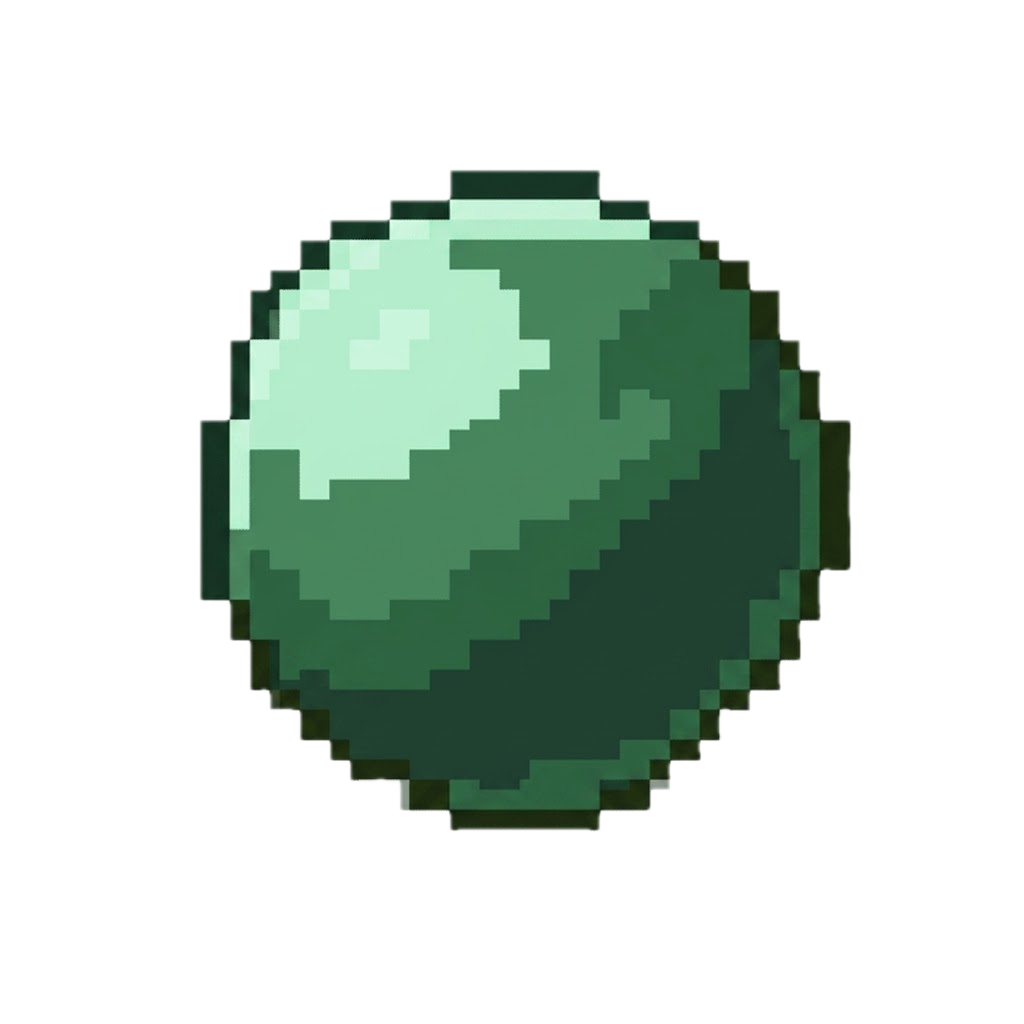
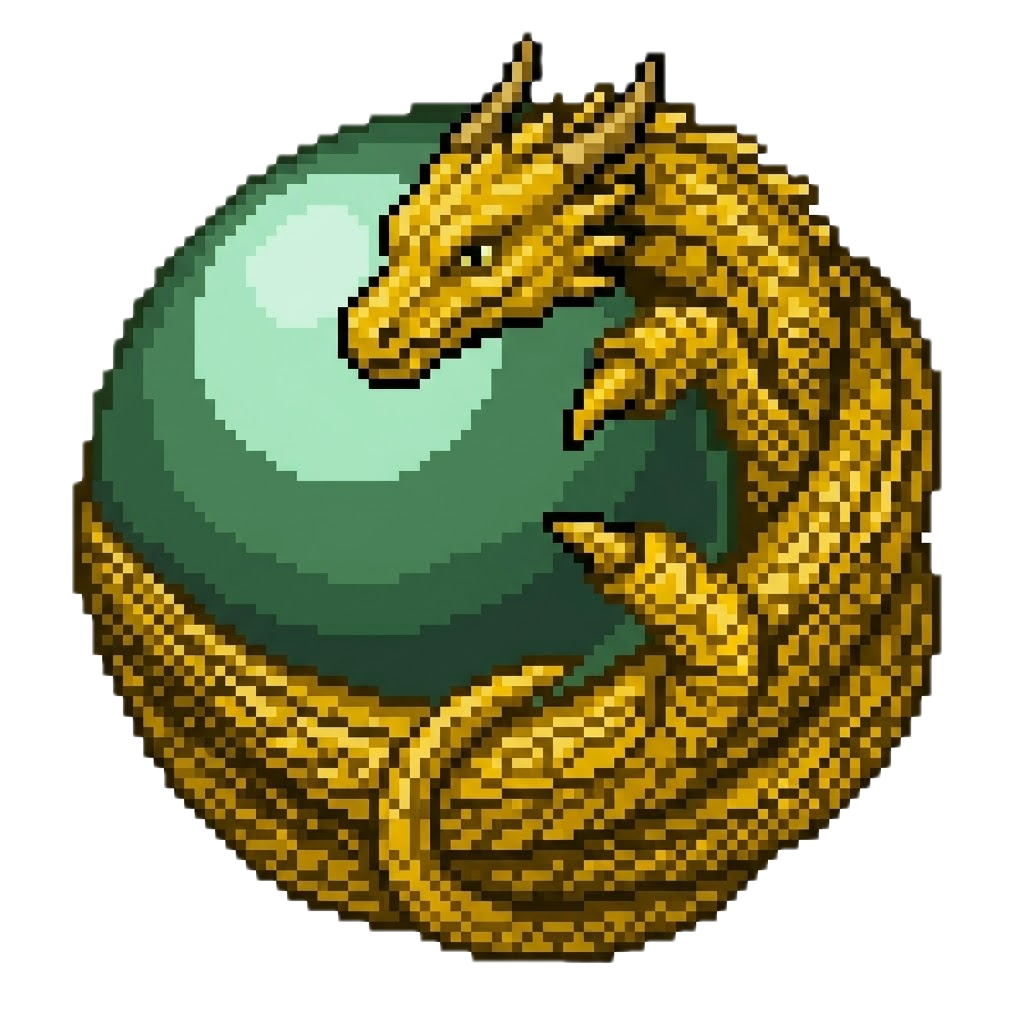
하단 상태창 개편 + 적 스폰 무제한화
- 1~3열 상단에 제목(STATUS/KILL STACK/CINTAMANI) 추가
- 3열 CINTAMANI을 2x2에서 1x4 한 줄 배치로 변경
- 1열(속도/길이/독침 데미지)을 2/3열과 같은 아이콘+숫자 형태로 통일
  - 속도/길이는 assets/stats/에 아이콘 자리 추가(에셋 반영 완료)
  - 독침/비늘파동 데미지 칸은 각 무기를 실제로 획득한 뒤에만 표시(assets/weapons 아이콘 재사용)
- 상태창 높이 100 -> 80px로 축소(아이콘 가로 배치로 생긴 여백 정리)
- 무기 잠금 해제 튜토리얼 팝업 폰트 전체 확대(lineHeight 비율 0.05 -> 0.065)
- 필드 적 3마리 초과 시 스폰이 완전히 멈추던 하드 캡 제거 - 대신 초과 마리당
  생성 간격이 2배씩 지수적으로 늘어나기만 하고 스폰 자체는 무제한으로 계속됨
- 여의주(cintamani) 아이콘 아트 반영(red/blue/green/yellow)

BUILD_VERSION 20260730-53, 헤드리스 테스트로 상태창 렌더링/적 스폰 무제한/간격 배율 확인

diff --git a/js/render/statusPanel.js b/js/render/statusPanel.js
@@ -1,14 +1,19 @@
-// 게임 캔버스 아래 별도의 캔버스(#status-canvas)에 그리는 하단 상태창 - 가로 4열:
-// 1열 뱀 기본 스테이터스(속도/길이/독침 데미지), 2열 적1~5 이번 판 킬 스택(이미지+수치),
-// 3열 여의주(cintamani) 4종 2x2(이미지+개수, 아직 게임에 없는 개념이라 항상 0), 4열은 향후
-// 확장을 위해 지금은 비워둠. hud.js(DOM 통계 바)와 같은 "게임 캔버스와는 분리된 자기만의
-// 캔버스" 패턴. 코드 상 식별자는 "여의주"의 음역(yeouiju)이 아니라 "cintamani"(여의주의
-// 산스크리트/영문 명칭, 이 게임 이름과 동일)를 쓴다 - 표기가 두 개로 갈리면 나중에 헷갈릴 수
-// 있어서 게임 제목과 통일했다.
+// 게임 캔버스 아래 별도의 캔버스(#status-canvas)에 그리는 하단 상태창 - 가로 4열, 각 열
+// 상단에 제목(STATUS/KILL STACK/CINTAMANI)을 붙인다:
+// 1열 STATUS - 뱀 기본 스테이터스, 2열 KILL STACK - 적1~5 이번 판 킬 스택(이미지+수치),
+// 3열 CINTAMANI - 여의주 4종 1x4 한 줄 배치(이미지+개수, 아직 게임에 없는 개념이라 항상 0),
+// 4열은 제목 없이 향후 확장을 위해 지금은 비워둠. hud.js(DOM 통계 바)와 같은 "게임 캔버스와는
+// 분리된 자기만의 캔버스" 패턴. 코드 상 식별자는 "여의주"의 음역(yeouiju)이 아니라
+// "cintamani"(여의주의 산스크리트/영문 명칭, 이 게임 이름과 동일)를 쓴다 - 표기가 두 개로
+// 갈리면 나중에 헷갈릴 수 있어서 게임 제목과 통일했다.
+// 1열은 2/3열과 같은 "아이콘 위 + 수치 아래" 스타일로 통일돼 있다 - 속도/길이는 항상 표시,
+// 독침/비늘파동 데미지는 각각 world.stats.venomUnlocked/scaleWaveUnlocked가 켜진 뒤에만
+// (그 무기를 실제로 획득한 뒤에만) 칸이 나타난다 - 칸 개수가 2~4개로 판 진행에 따라 늘어나므로
+// slotWidth를 항상 items.length 기준으로 다시 계산한다(2열의 적 종류 수 기준 계산과 같은 패턴).
 import { GRID_W, CELL_SIZE, STATUS_PANEL_HEIGHT } from '../config/constants.js';
 import { getDisplaySpeedLevel } from '../core/speedLevel.js';
 import { EnemyTypes } from '../content/enemies/index.js';
-import { getEnemyIcon, getCintamaniIcon, drawIcon } from './statusIcons.js';
+import { getEnemyIcon, getCintamaniIcon, getWeaponIcon, getStatIcon, drawIcon } from './statusIcons.js';
 
 const BG_COLOR = '#d9b98a';                 // 밝은 가죽색
 const PATTERN_COLOR = 'rgba(92, 67, 38, 0.28)'; // 배경의 짙은 갈색 가는 선(가죽 질감)
@@ -22,6 +27,27 @@ const CINTAMANI_COLOR = {
   green: '#2f8f4e',
   yellow: '#d4a017',
 };
+
+// 1열 스탯 칸의 이미지 없을 때 폴백 원 색 - 독침/비늘파동은 각 무기 튜토리얼 팝업에서 이미
+// 쓰던 상징색(overlays.js 참고)을 그대로 맞춘다.
+const STAT_FALLBACK_COLOR = {
+  speed: '#3fa7d6',
+  length: '#4caf7d',
+  venomDamage: '#f5d742',
+  scaleWaveDamage: '#ffffff',
+};
+
+// 1~3열 상단에 공통으로 붙는 제목 - 이 높이만큼 각 열의 실제 통계 내용물이 아래로 밀린다
+// (4열은 아직 내용이 없어 제목도 없음).
+const COLUMN_TITLE_HEIGHT = 18;
+
+function drawColumnTitle(ctx, text, x, columnWidth) {
+  ctx.fillStyle = TEXT_COLOR;
+  ctx.font = 'bold 11px monospace';
+  ctx.textAlign = 'center';
+  ctx.textBaseline = 'middle';
+  ctx.fillText(text, x + columnWidth / 2, COLUMN_TITLE_HEIGHT / 2 + 2);
+}
 
 function drawBackground(ctx, w, h) {
   ctx.fillStyle = BG_COLOR;
@@ -65,32 +91,47 @@ function drawIconOrFallback(ctx, icon, cx, cy, radius, fallbackColor) {
   ctx.fill();
 }
 
-// 1열 - 뱀 기본 스테이터스: 속도/길이/독침(투사체) 데미지.
-function drawSnakeStatsColumn(ctx, world, x, columnWidth, h) {
-  const cx = x + columnWidth / 2;
-  const rows = [
-    `속도 ${getDisplaySpeedLevel(world.stats.tickMs)}`,
-    `길이 ${world.snake.segments.length}`,
-    `독침 데미지 ${world.stats.attackDamage}`,
+// 1열 - 뱀 기본 스테이터스, 2/3열과 같은 아이콘-위/수치-아래 스타일. contentTop/contentH는
+// 열 제목(COLUMN_TITLE_HEIGHT)이 차지하는 만큼을 뺀, 실제 내용이 그려지는 영역이다.
+// 속도/길이는 항상 표시하고, 독침/비늘파동 데미지는 각 무기를 실제로 획득(unlocked)한 뒤에만
+// 칸이 추가된다 - 아직 못 배운 무기의 수치를 미리 보여주는 건 스포일러라 숨긴다.
+function drawSnakeStatsColumn(ctx, world, x, columnWidth, contentTop, contentH) {
+  const items = [
+    { icon: getStatIcon('speed'), fallback: STAT_FALLBACK_COLOR.speed, value: getDisplaySpeedLevel(world.stats.tickMs) },
+    { icon: getStatIcon('length'), fallback: STAT_FALLBACK_COLOR.length, value: world.snake.segments.length },
   ];
-  ctx.fillStyle = TEXT_COLOR;
-  ctx.font = 'bold 12px monospace';
+  if (world.stats.venomUnlocked) {
+    items.push({ icon: getWeaponIcon('venom'), fallback: STAT_FALLBACK_COLOR.venomDamage, value: world.stats.attackDamage });
+  }
+  if (world.stats.scaleWaveUnlocked) {
+    items.push({ icon: getWeaponIcon('scaleWave'), fallback: STAT_FALLBACK_COLOR.scaleWaveDamage, value: world.stats.scaleWaveDamage });
+  }
+
+  const slotWidth = columnWidth / items.length;
+  const iconRadius = 12;
+  const iconCy = contentTop + contentH * 0.36;
+  const textCy = contentTop + contentH * 0.74;
+
   ctx.textAlign = 'center';
   ctx.textBaseline = 'middle';
-  const rowHeight = h / rows.length;
-  rows.forEach((text, i) => {
-    ctx.fillText(text, cx, rowHeight * i + rowHeight / 2);
+  items.forEach((item, i) => {
+    const slotCx = x + slotWidth * i + slotWidth / 2;
+    drawIconOrFallback(ctx, item.icon, slotCx, iconCy, iconRadius, item.fallback);
+
+    ctx.fillStyle = TEXT_COLOR;
+    ctx.font = 'bold 11px monospace';
+    ctx.fillText(String(item.value), slotCx, textCy);
   });
 }
 
 // 2열 - 적1~5 이번 판 킬 스택. world.stats.killsByType는 판마다 리셋되는 이번 판 전적이다
 // (game.js의 world.reset() 참고) - 여러 판에 걸친 영구 누적은 지금은 하지 않는다.
-function drawEnemyKillsColumn(ctx, world, x, columnWidth, h) {
+function drawEnemyKillsColumn(ctx, world, x, columnWidth, contentTop, contentH) {
   const ids = EnemyTypes.all().map(def => def.id).sort((a, b) => a - b);
   const slotWidth = columnWidth / ids.length;
   const iconRadius = 12;
-  const iconCy = h * 0.36;
-  const textCy = h * 0.74;
+  const iconCy = contentTop + contentH * 0.36;
+  const textCy = contentTop + contentH * 0.74;
 
   ctx.textAlign = 'center';
   ctx.textBaseline = 'middle';
@@ -107,28 +148,26 @@ function drawEnemyKillsColumn(ctx, world, x, columnWidth, h) {
   }
 }
 
-// 3열 - 여의주(cintamani) 4종, 2x2 배치. world.stats.cintamani는 아직 게임에 없는 개념이라
-// 항상 0 - 자리만 미리 잡아둔 것(game.js 참고).
-function drawCintamaniColumn(ctx, world, x, columnWidth, h) {
-  const cellW = columnWidth / 2;
-  const cellH = h / 2;
+// 3열 - 여의주(cintamani) 4종, 1x4 한 줄 배치(2열 킬 스택 열과 같은 아이콘-위/수치-아래
+// 스타일로 통일). world.stats.cintamani는 아직 게임에 없는 개념이라 항상 0 - 자리만 미리
+// 잡아둔 것(game.js 참고).
+function drawCintamaniColumn(ctx, world, x, columnWidth, contentTop, contentH) {
+  const slotWidth = columnWidth / CINTAMANI_ORDER.length;
   const iconRadius = 12;
+  const iconCy = contentTop + contentH * 0.36;
+  const textCy = contentTop + contentH * 0.74;
 
+  ctx.textAlign = 'center';
   ctx.textBaseline = 'middle';
   for (let i = 0; i < CINTAMANI_ORDER.length; i++) {
     const key = CINTAMANI_ORDER[i];
-    const col = i % 2;
-    const row = Math.floor(i / 2);
-    const cellCx = x + cellW * col + cellW / 2;
-    const cellCy = cellH * row + cellH / 2;
-    const iconCx = cellCx - 18;
+    const slotCx = x + slotWidth * i + slotWidth / 2;
 
-    drawIconOrFallback(ctx, getCintamaniIcon(key), iconCx, cellCy, iconRadius, CINTAMANI_COLOR[key]);
+    drawIconOrFallback(ctx, getCintamaniIcon(key), slotCx, iconCy, iconRadius, CINTAMANI_COLOR[key]);
 
     ctx.fillStyle = TEXT_COLOR;
-    ctx.font = 'bold 12px monospace';
-    ctx.textAlign = 'left';
-    ctx.fillText(`×${world.stats.cintamani[key]}`, iconCx + iconRadius + 6, cellCy);
+    ctx.font = 'bold 11px monospace';
+    ctx.fillText(`×${world.stats.cintamani[key]}`, slotCx, textCy);
   }
 }
 
@@ -148,10 +187,15 @@ export function createStatusPanel() {
   return {
     render(world) {
       drawBackground(ctx, w, h);
-      drawSnakeStatsColumn(ctx, world, 0, columnWidth, h);
-      drawEnemyKillsColumn(ctx, world, columnWidth, columnWidth, h);
-      drawCintamaniColumn(ctx, world, columnWidth * 2, columnWidth, h);
-      // 4열(x = columnWidth*3 ~ columnWidth*4)은 지금은 배경만 두고 비워둔다 - 향후 확장 예정.
+      const contentTop = COLUMN_TITLE_HEIGHT;
+      const contentH = h - COLUMN_TITLE_HEIGHT;
+      drawColumnTitle(ctx, 'STATUS', 0, columnWidth);
+      drawColumnTitle(ctx, 'KILL STACK', columnWidth, columnWidth);
+      drawColumnTitle(ctx, 'CINTAMANI', columnWidth * 2, columnWidth);
+      drawSnakeStatsColumn(ctx, world, 0, columnWidth, contentTop, contentH);
+      drawEnemyKillsColumn(ctx, world, columnWidth, columnWidth, contentTop, contentH);
+      drawCintamaniColumn(ctx, world, columnWidth * 2, columnWidth, contentTop, contentH);
+      // 4열(x = columnWidth*3 ~ columnWidth*4)은 제목 없이 배경만 두고 비워둔다 - 향후 확장 예정.
       drawColumnDividers(ctx, w, h, columnWidth);
     },
     // 타이틀/리더보드 열람 화면(아직 world 통계가 의미 없는 상태)에서 게임 캔버스의 배경과

diff --git a/js/render/statusIcons.js b/js/render/statusIcons.js
@@ -1,14 +1,16 @@
-// 하단 상태창(render/statusPanel.js)에서 쓰는 적 1~5 / 여의주(친타마니) 4종 아이콘, 그리고
-// 독침/비늘파동 잠금 해제 튜토리얼 팝업(render/overlays.js)에서 쓰는 무기 아이콘 로더.
+// 하단 상태창(render/statusPanel.js)에서 쓰는 적 1~5 / 여의주(친타마니) 4종 / 1열 스탯
+// (속도/길이) 아이콘, 그리고 독침/비늘파동 잠금 해제 튜토리얼 팝업(render/overlays.js)과
+// 1열 스탯 칸에서 같이 쓰는 무기 아이콘 로더.
 // render/snakeSprites.js와 같은 패턴: 실제 이미지 파일이 없는 항목은 조용히 미로딩 상태로
 // 남고, 호출부가 그 경우 색깔 도형으로 대체해서 그린다(assets/enemies/README.md,
-// assets/cintamani/README.md, assets/weapons/README.md에 사용자가 그려 넣을 파일명/규격을
-// 정리해둠).
+// assets/cintamani/README.md, assets/weapons/README.md, assets/stats/README.md에 사용자가
+// 그려 넣을 파일명/규격을 정리해둠).
 // 코드 상 식별자는 "여의주"의 음역(yeouiju)이 아니라 "cintamani"(여의주의 산스크리트/영문
 // 명칭, 이 게임 이름과 동일)를 쓴다 - 표기가 두 개로 갈리면 나중에 헷갈릴 수 있어서.
 const ENEMY_IDS = [1, 2, 3, 4, 5];
 const CINTAMANI_KEYS = ['red', 'blue', 'green', 'yellow'];
 const WEAPON_KEYS = ['venom', 'scaleWave'];
+const STAT_KEYS = ['speed', 'length'];
 
 // 그려지는 실제 픽셀(투명하지 않은 부분)의 바운딩 박스를 이미지 원본 좌표계로 구한다 - 사용자가
 // 그린 PNG가 64x64 캔버스 가장자리까지 꽉 채우지 않고 여백을 두면, 색깔 사각형/원 폴백과 같은
@@ -79,6 +81,7 @@ function createIconLoader(keys, pathFor) {
 const getEnemyIconImpl = createIconLoader(ENEMY_IDS, id => `assets/enemies/enemy${id}.png`);
 const getCintamaniIconImpl = createIconLoader(CINTAMANI_KEYS, key => `assets/cintamani/${key}.png`);
 const getWeaponIconImpl = createIconLoader(WEAPON_KEYS, key => `assets/weapons/${key}.png`);
+const getStatIconImpl = createIconLoader(STAT_KEYS, key => `assets/stats/${key}.png`);
 
 export function getEnemyIcon(id) {
   return getEnemyIconImpl(id);
@@ -88,10 +91,17 @@ export function getCintamaniIcon(key) {
   return getCintamaniIconImpl(key);
 }
 
-// 독침(venom)/비늘파동(scaleWave) 잠금 해제 튜토리얼 팝업에 쓰는 작은 무기 아이콘 -
-// assets/weapons/venom.png, assets/weapons/scaleWave.png (assets/weapons/README.md 참고).
+// 독침(venom)/비늘파동(scaleWave) 잠금 해제 튜토리얼 팝업 + 상태창 1열(획득 후)에 같이 쓰는
+// 작은 무기 아이콘 - assets/weapons/venom.png, assets/weapons/scaleWave.png
+// (assets/weapons/README.md 참고).
 export function getWeaponIcon(key) {
   return getWeaponIconImpl(key);
+}
+
+// 상태창 1열의 속도/길이 칸 아이콘 - assets/stats/speed.png, assets/stats/length.png
+// (assets/stats/README.md 참고).
+export function getStatIcon(key) {
+  return getStatIconImpl(key);
 }
 
 // get*Icon()이 돌려준 이미지를 대상 박스(dx,dy,dw,dh)에 꽉 채워 그린다 - 트림 정보가 있으면

diff --git a/js/managers/enemyManager.js b/js/managers/enemyManager.js
@@ -1,5 +1,6 @@
 import {
-  GRID_W, GRID_H, CELL_SIZE, ENEMY_SCALE, ENEMY_SPAWN_MIN_MS, ENEMY_SPAWN_MAX_MS, ENEMY_MAX_COUNT,
+  GRID_W, GRID_H, CELL_SIZE, ENEMY_SCALE, ENEMY_SPAWN_MIN_MS, ENEMY_SPAWN_MAX_MS,
+  ENEMY_SPAWN_SLOWDOWN_THRESHOLD, ENEMY_SPAWN_SLOWDOWN_FACTOR,
   ENEMY_MIN_SPAWN_DISTANCE_FROM_HEAD, CAPTURE_ZONE_MIN_SPAWN_DISTANCE,
 } from '../config/constants.js';
 import { EnemyTypes } from '../content/enemies/index.js';
@@ -29,8 +30,10 @@ export class EnemyManager {
     this.spawnTimer += dt;
     if (this.spawnTimer >= this.nextSpawnDelay) {
       this.spawnTimer = 0;
-      this.nextSpawnDelay = this._randomSpawnDelay();
       this._trySpawn(world);
+      // _trySpawn 이후에 계산해야 방금 스폰(또는 스폰 실패)이 반영된 최신 마리 수 기준으로
+      // 다음 간격의 지수 배율(_randomSpawnDelay 참고)이 정해진다.
+      this.nextSpawnDelay = this._randomSpawnDelay();
     }
   }
 
@@ -86,8 +89,14 @@ export class EnemyManager {
     }
   }
 
+  // 필드에 ENEMY_SPAWN_SLOWDOWN_THRESHOLD(3)마리를 초과해 있으면, 초과한 마리 수만큼
+  // ENEMY_SPAWN_SLOWDOWN_FACTOR(2)를 거듭제곱해 기본 간격을 늘린다 - 4마리째부터 매 한 마리씩
+  // 늘어날 때마다 다음 생성까지 갈수록 오래 걸리지만, 생성 자체가 완전히 멈추지는 않는다
+  // (예전엔 이 수를 넘으면 생성이 아예 멈추는 하드 캡이었음 - _trySpawn 참고).
   _randomSpawnDelay() {
-    return ENEMY_SPAWN_MIN_MS + Math.floor(Math.random() * (ENEMY_SPAWN_MAX_MS - ENEMY_SPAWN_MIN_MS + 1));
+    const base = ENEMY_SPAWN_MIN_MS + Math.floor(Math.random() * (ENEMY_SPAWN_MAX_MS - ENEMY_SPAWN_MIN_MS + 1));
+    const over = Math.max(0, this.enemies.length - ENEMY_SPAWN_SLOWDOWN_THRESHOLD);
+    return base * (ENEMY_SPAWN_SLOWDOWN_FACTOR ** over);
   }
 
   _createEnemy(typeDef, x, y) {
@@ -120,8 +129,9 @@ export class EnemyManager {
   // captureZone을 가진 타입은 가장자리 여백이 필요해서, 어떤 타입이 나올지 미리 알아야
   // 후보 칸 범위를 좁힐 수 있다.
   _trySpawn(world) {
-    if (this.enemies.length >= ENEMY_MAX_COUNT) return;
-
+    // 마리 수로 스폰 자체를 막는 하드 캡은 없다 - 대신 마리 수가 많을수록 다음 스폰까지의
+    // 간격이 지수적으로 늘어난다(_randomSpawnDelay 참고), 그래서 무제한으로 계속 나오되
+    // 점점 드물어진다.
     const eligibleTypes = EnemyTypes.all().filter(def => !def.spawnEligible || def.spawnEligible(world));
     if (eligibleTypes.length === 0) return;
     const typeDef = eligibleTypes[Math.floor(Math.random() * eligibleTypes.length)];

diff --git a/js/render/overlays.js b/js/render/overlays.js
@@ -73,7 +73,8 @@ export function renderTutorialPopup(ctx, { icon, iconColor, title, lines }) {
   ctx.fillStyle = 'rgba(0, 0, 0, 0.45)';
   ctx.fillRect(0, 0, cw, ch);
 
-  const lineHeight = ch * 0.05;
+  const lineHeight = ch * 0.065; // 글씨가 너무 작다는 피드백으로 0.05에서 상향 - 이 값 하나로
+  // 아이콘/제목/본문/하단 안내 글씨와 박스 크기가 전부 같은 비율로 같이 커진다.
   const iconSize = lineHeight * 1.7;
   const iconBlockH = (icon || iconColor) ? iconSize + lineHeight * 0.5 : 0;
   const titleH = lineHeight * 1.3;

diff --git a/index.html b/index.html
@@ -4,7 +4,7 @@
   <meta charset="UTF-8" />
   <meta name="viewport" content="width=device-width, initial-scale=1.0" />
   <title>Cintamani</title>
-  <link rel="stylesheet" href="css/style.css?v=20260730-49" />
+  <link rel="stylesheet" href="css/style.css?v=20260730-53" />
 </head>
 <body>
   <div id="game-wrapper">
@@ -46,6 +46,6 @@
     </div>
   </div>
 
-  <script type="module" src="js/main.js?v=20260730-49"></script>
+  <script type="module" src="js/main.js?v=20260730-53"></script>
 </body>
 </html>

diff --git a/assets/stats/README.md b/assets/stats/README.md
@@ -1,0 +1,19 @@
+# 상태창 스탯 아이콘 이미지 템플릿
+
+하단 상태창의 1열(속도/길이/독침 데미지/비늘파동 데미지)에서, 각 수치 위에 작게 들어가는
+아이콘입니다. 이 폴더에 아래 파일을 이 이름 그대로 넣으면 자동으로 적용됩니다. 파일이
+없는 항목은 그 스탯을 상징하는 색의 원으로 자동 대체되므로, 하나씩 채워가며 확인할 수
+있습니다. 독침/비늘파동 아이콘은 이 폴더가 아니라 `assets/weapons/venom.png`,
+`assets/weapons/scaleWave.png`를 그대로 재사용합니다(무기 튜토리얼 팝업과 같은 이미지).
+
+## 필요한 파일
+
+| 파일명 | 대상 |
+|---|---|
+| `speed.png` | 속도 |
+| `length.png` | 길이 |
+
+## 규격
+
+- 정사각형 PNG, 배경 투명
+- 64×64px 권장 (실제 화면에는 훨씬 작게 축소되어 표시됨 - 도트/블록 느낌으로 그리면 축소됐을 때 더 선명함)
